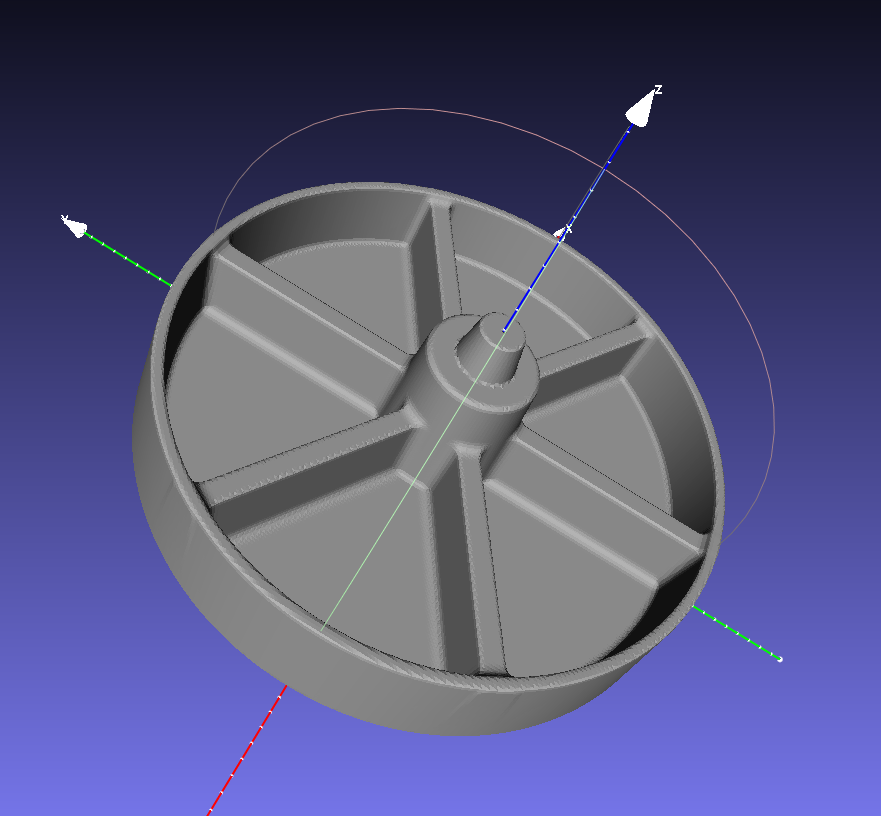
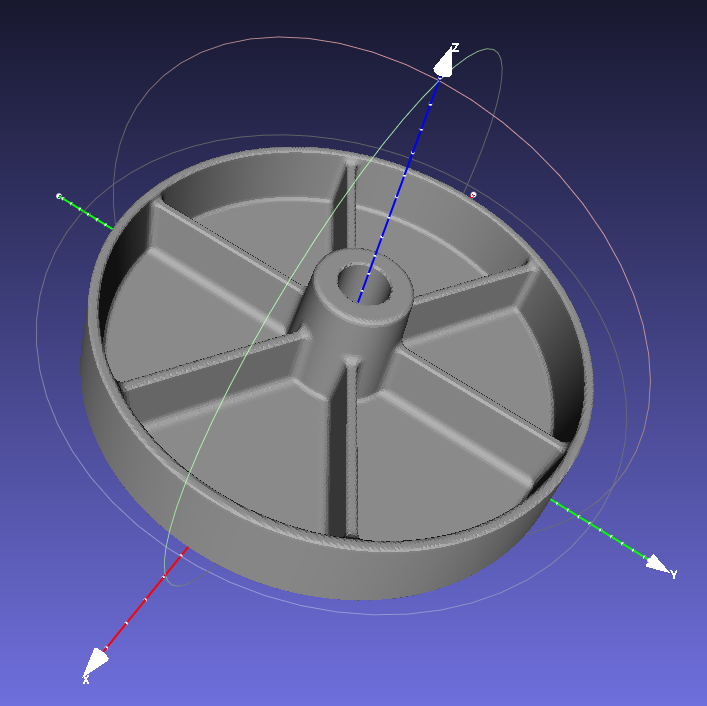
Updated the wheel picture.

diff --git a/examples/pottery_wheel/main.go b/examples/pottery_wheel/main.go
@@ -20,7 +20,7 @@ import (
 const MM_PER_INCH = 25.4
 const SCALE = 1.0 / 0.98 // 2% Al shrinkage
 const core_print = false // add the core print to the wheel
-const pie_print = true   // create a 1/n pie segment (n = number of webs)
+const pie_print = false  // create a 1/n pie segment (n = number of webs)
 
 //-----------------------------------------------------------------------------
 
